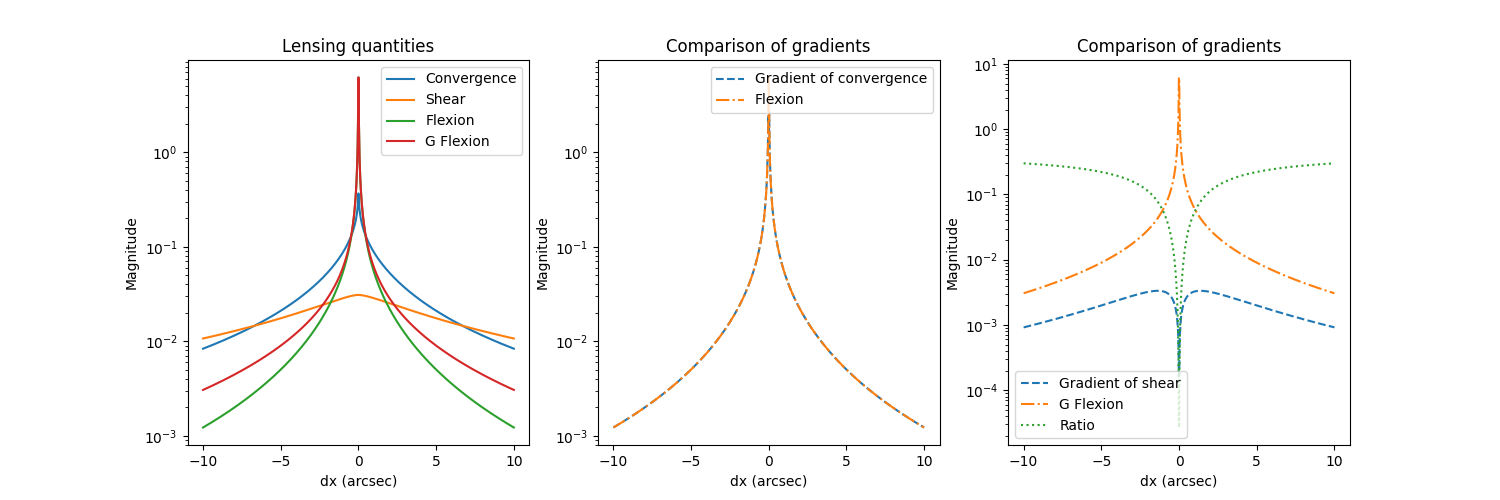
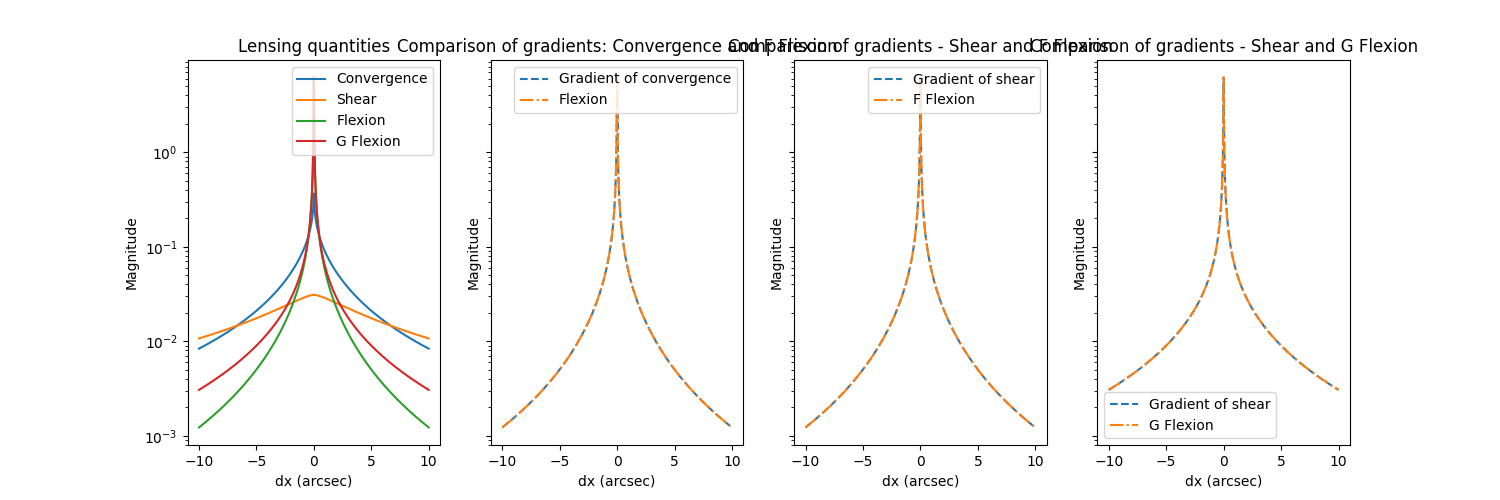
Fixed error in 1D gradients

diff --git a/nfw_test.py b/nfw_test.py
@@ -78,7 +78,7 @@ def radial_term_2(x):
     k = (1 - x) / (1 + x)
 
     sol[mask1] = 8 * np.arctanh(np.sqrt(k[mask1])) / (x[mask1]**2 * np.sqrt(1 - x[mask1]**2)) \
-                + 4 * np.log(x[mask1] / 2) / x[mask1]**2 \
+                + 4 * np.log(x[mask1]/2) / x[mask1]**2 \
                 - 2 / (x[mask1]**2 - 1) \
                 + 4 * np.arctanh(np.sqrt(k[mask1])) / ((x[mask1]**2 - 1) * np.sqrt(1 - x[mask1]**2))
     
@@ -168,9 +168,9 @@ def one_dimensional_calc():
     g_flex_mag = calc_g_flex(flexion_s, x, term_4)
 
     # Plot the lensing quantities
-    fig, ax = plt.subplots(1, 3, figsize=(15, 5))
+    fig, ax = plt.subplots(1, 4, figsize=(15, 5), sharey=True)
     ax[0].plot(dx, kappa, label='Convergence')
-    ax[0].plot(dx, gamma, label='Shear')
+    ax[0].plot(dx, np.abs(gamma), label='Shear')
     ax[0].plot(dx, flex_mag, label='Flexion')
     ax[0].plot(dx, g_flex_mag, label='G Flexion')
     ax[0].set_title('Lensing quantities')
@@ -185,29 +185,43 @@ def one_dimensional_calc():
     grad_kappa = np.abs(grad_kappa)
     ax[1].plot(dx, grad_kappa, label='Gradient of convergence', linestyle='--')
     ax[1].plot(dx, flex_mag, label='Flexion', linestyle='-.')
-    ax[1].set_title('Comparison of gradients')
+    ax[1].set_title('Comparison of gradients: Convergence and F Flexion')
     ax[1].legend()
     ax[1].set_xlabel('dx (arcsec)')
     ax[1].set_ylabel('Magnitude')
     ax[1].set_yscale('log')
 
-    # Compare the gradient of the shear to the second flexion
-    grad_gamma = np.gradient(gamma, dx) 
+    # Compare the gradient of the shear to the first flexion
+    grad_gamma = np.gradient(gamma, dx) + 2 * gamma / dx
+    # Get the magnitude
     grad_gamma = np.abs(grad_gamma)
     ax[2].plot(dx, grad_gamma, label='Gradient of shear', linestyle='--')
-    ax[2].plot(dx, g_flex_mag, label='G Flexion', linestyle='-.')
-    ax[2].plot(dx, grad_gamma / g_flex_mag, label='Ratio', linestyle=':')
-    ax[2].set_title('Comparison of gradients')
+    ax[2].plot(dx, flex_mag, label='F Flexion', linestyle='-.')
+    # ax[2].plot(dx, grad_gamma / g_flex_mag, label='Ratio', linestyle=':')
+    ax[2].set_title('Comparison of gradients - Shear and F Flexion')
     ax[2].legend()
     ax[2].set_xlabel('dx (arcsec)')
     ax[2].set_ylabel('Magnitude')
     ax[2].set_yscale('log')
 
+    # Compare the gradient of the shear to the second flexion
+    grad_gamma = np.gradient(gamma, dx) - 2 * gamma / dx
+    # Get the magnitude
+    grad_gamma = np.abs(grad_gamma)
+    ax[3].plot(dx, grad_gamma, label='Gradient of shear', linestyle='--')
+    ax[3].plot(dx, g_flex_mag, label='G Flexion', linestyle='-.')
+    # ax[3].plot(dx, grad_gamma / g_flex_mag, label='Ratio', linestyle=':')
+    ax[3].set_title('Comparison of gradients - Shear and G Flexion')
+    ax[3].legend()
+    ax[3].set_xlabel('dx (arcsec)')
+    ax[3].set_ylabel('Magnitude')
+    ax[3].set_yscale('log')
+
     plt.savefig('1d_lensing_quantities.png')
 
     plt.show()
     plt.close()
-
+    raise ValueError('Stop here')
     # Take the second derivative of the first and second flexion - they should match
     f_first = np.gradient(flex_mag, dx)
     f_second = np.gradient(f_first, dx)

diff --git a/utils.py b/utils.py
@@ -215,8 +215,8 @@ def calculate_lensing_signals_nfw(halos, sources, z_source):
     rho_s = rho_c * halos.calc_delta_c() 
     sigma_c = critical_surface_density(halos.redshift, z_source)
     # Each halo has a characteristic surface density kappa_s
-    kappa_s = rho_s * rs / sigma_c
-    flexion_s = kappa_s * Dl / rs
+    kappa_s = rho_s * rs / sigma_c # Dimensionless quantity
+    flexion_s = (kappa_s * Dl / rs) / 206265 # Dimensions of inverse arcseconds
 
     # Compute the distances between each source and each halo
     dx = sources.x - halos.x[:, np.newaxis]
@@ -307,21 +307,19 @@ def calculate_lensing_signals_nfw(halos, sources, z_source):
 
     # Compute lensing magnitudes (in arcseconds)
     shear_mag = - kappa_s[:, np.newaxis] * term_2
-    # flex_mag = (-2 * flexion_s[:, np.newaxis]) * ((2 * x * term_1 / (x**2 - 1)**2) - term_3 / (x**2 - 1)) / 206265 # Using Wright & Brainerd notation
-    # g_flex_mag = (2 * flexion_s[:, np.newaxis]) * ((8 / x**3) * np.log(x / 2) + ((3/x)*(1 - 2*x**2) + term_4) / (x**2 - 1)**2) / 206265
 
     def calc_f_flex(flexion_s, x, term_1, term_3):
         I_1 = 2 * flexion_s[:, np.newaxis]
         I_2 = 2 * x * term_1 / (x**2 - 1)**2
         I_3 = term_3 / (x**2 - 1)
-        return -I_1 * (I_2 - I_3) / 206265
+        return -I_1 * (I_2 - I_3) 
 
     def calc_g_flex(flexion_s, x, term_4):
         I_1 = 2 * flexion_s[:, np.newaxis]
         I_2 = (8 / x**3) * np.log(x / 2)
         I_3 = ((3 / x) * (1 - 2 * x**2) + term_4)
         I_4 = (x**2 - 1)**2
-        return (I_1 * (I_2 + (I_3 / I_4))) / 206265
+        return (I_1 * (I_2 + (I_3 / I_4))) 
 
     flex_mag = calc_f_flex(flexion_s, x, term_1, term_3)
     g_flex_mag = calc_g_flex(flexion_s, x, term_4)
@@ -356,10 +354,10 @@ def createSources(lenses,ns=1,randompos=True,sigs=0.1,sigf=0.01,sigg=0.02,xmax=5
     y = r*np.sin(phi)
 
     sources = pipeline.Source(x, y, 
-                              np.zeros_like(x), np.zeros_like(y),
-                                np.zeros_like(x), np.zeros_like(y),
-                                np.zeros_like(x), np.zeros_like(y), 
-                                np.ones_like(x) * sigs, np.ones_like(x) * sigf, np.ones_like(x) * sigg)
+                            np.zeros_like(x), np.zeros_like(y),
+                            np.zeros_like(x), np.zeros_like(y),
+                            np.zeros_like(x), np.zeros_like(y), 
+                            np.ones_like(x) * sigs, np.ones_like(x) * sigf, np.ones_like(x) * sigg)
     # Now apply noise
     sources.apply_noise()
     # Apply the lensing effects of the lenses

diff --git a/mdark.py b/mdark.py
@@ -767,10 +767,6 @@ def process_md_set(test_number):
     result_file = test_dir + '/results_{}.csv'.format(test_number)
     plot_name = 'Images/MDARK/mass_correlations/mass_correlation_{}.png'.format(test_number)
 
-    #Check that the ID file exists - if not, create the directory and build the test set
-    if not os.path.exists(ID_file):
-        os.makedirs('Data/MDARK_Test/Test{}'.format(test_number))
-        build_test_set(30, z_chosen, ID_file)
 
     run_test_parallel(ID_file, result_file, z_chosen, Ntrials, lensing_type='NFW')
     stop = time.time()
